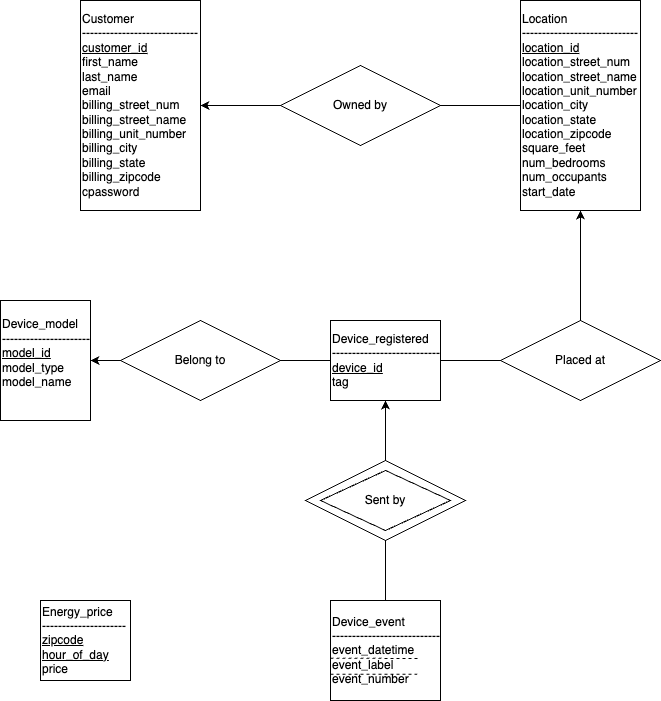
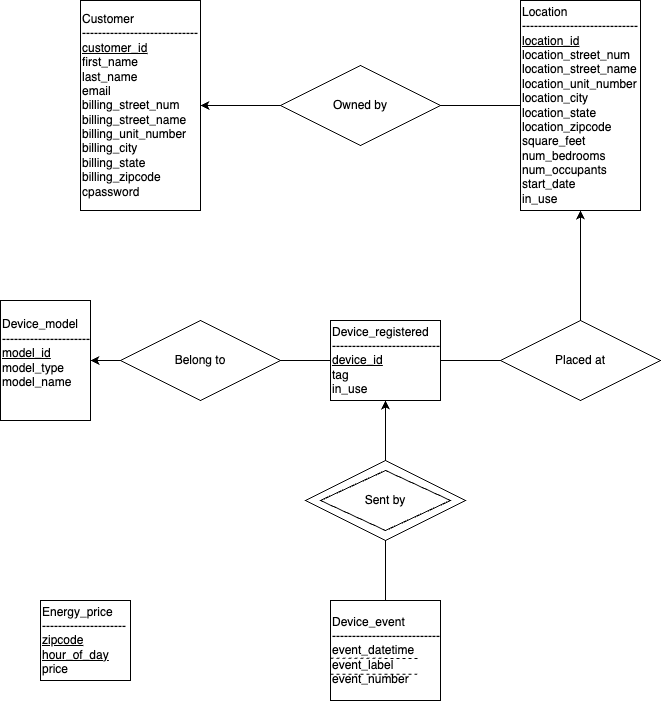
report

Changed region(s): [[0.7867, 0.0, 0.9682, 0.2996], [0.4841, 0.4494, 0.6657, 0.5692]]

diff --git a/part1.md b/part1.md
@@ -81,6 +81,9 @@ device_event(**device_id**, **event_label**, **event_datetime**, event_number), 
 ###  2.4.3 Energy Price
 energy_price(**zipcode**, **hour_of_day**, price), *Energy prices vary on hourly and locational basis*   
 
+### 2.4.4 Modifications from the design of part1*
+The last part of the project designed some foreign key constraints for table *device_event* and *device_registered*, but did not specify the on delete action for them. Taking into account of the large amount of data in these table that is associated with *device_register* and *location*, and the logic that if any devices and locations are deleted, the records of the corresponding energy consumption should be reserved (in order to show the correct energy statistic charts), 'in_use' attributes are added into these table. When some locations or devices are deleted, 'in_use' column are set to false, thus preserving the integrity constraints.
+
 # 3 Database Creation
 *In this part, we choose MySQL to implement the schema.*  
 
@@ -430,3 +433,4 @@ LIMIT
     1;
 ```
 ![sql6](pic/sql6.png)
+
